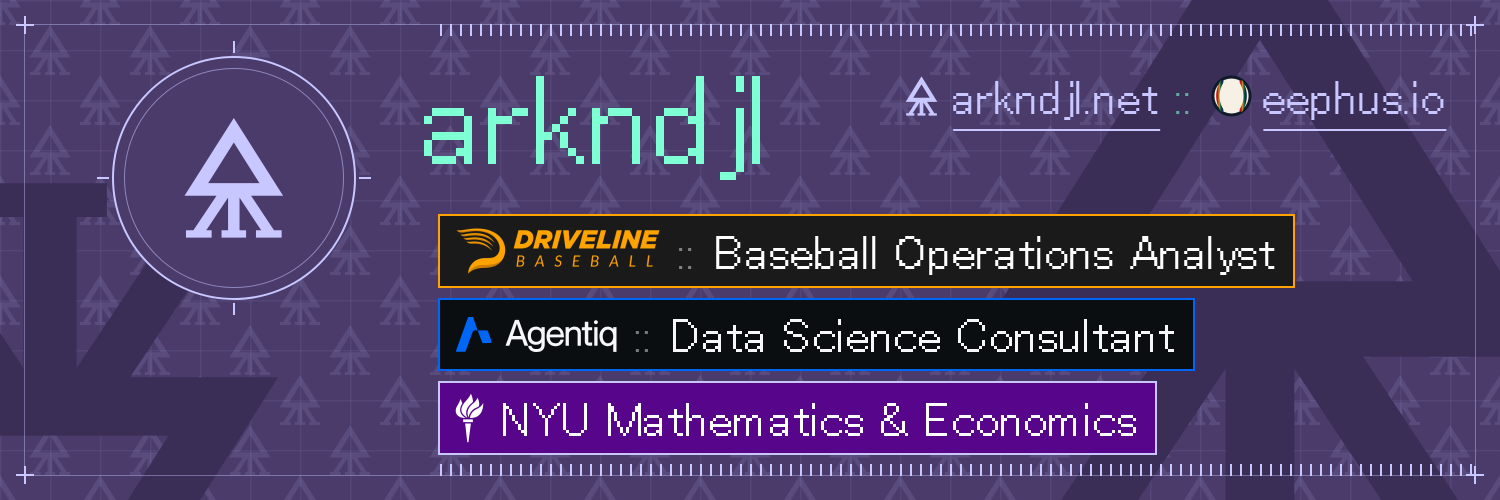
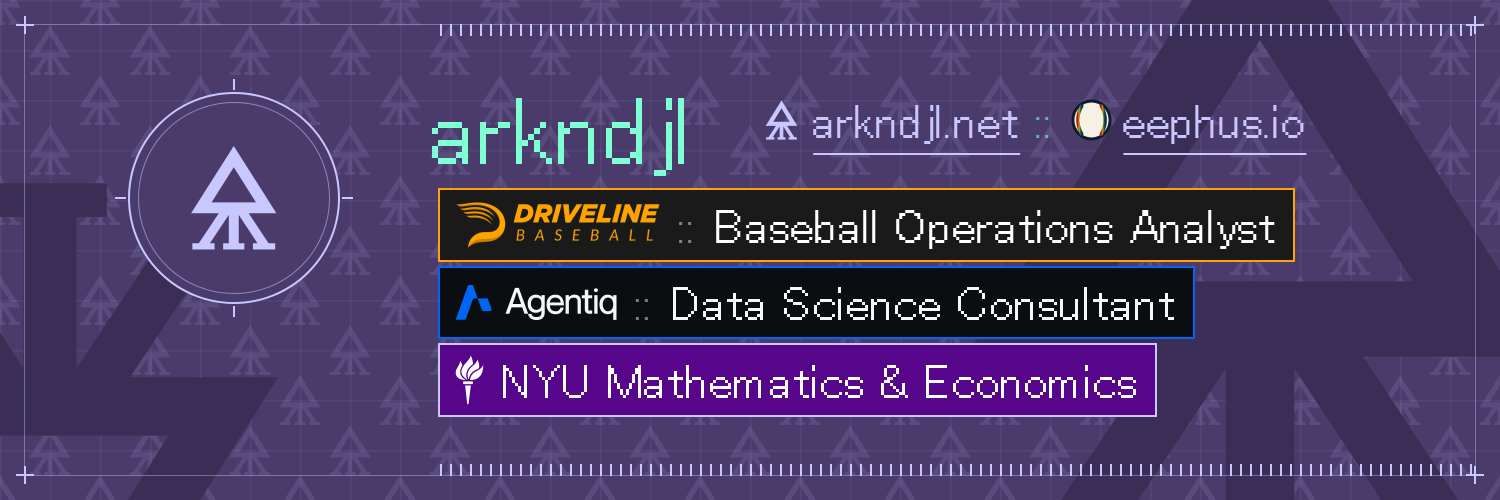
X header: keep all content inside the mobile crop band (y 80-420)
Claude-Session: https://claude.ai/code/session_01DDUMjCdc1fUkRFEjpiffW1

diff --git a/brand/twitter-banner.html b/brand/twitter-banner.html
@@ -2,7 +2,9 @@
 <!-- X / Twitter profile header, 1500 x 500. Flat layers: glyph wallpaper, a giant
      deep-purple glyph bleeding off the right, a flipped one off the left, stripe band,
      then emblem, wordmark, sites, badge. Phones show it at about a quarter size, so
-     nothing is smaller than 48px; the profile picture covers x < 380, y > 325. -->
+     nothing is smaller than 48px. The X mobile app crops about 60px off the top and bottom
+     (and more on narrow phones), so all content sits in the y 80-420 band; the profile
+     picture covers x < 380, y > 325, so the emblem stays above it. -->
 <link rel="stylesheet" href="theme.css">
 <style>
 .canvas { width: 1500px; height: 500px; --inset: 24px; --grid: 50px; --tile: 100px; --wp: .12; }
@@ -10,10 +12,10 @@
 .giant.l { left: -260px; top: 150px; width: 620px; height: 620px; }
 .stripes { left: 440px; right: 24px; top: 24px; }
 .stripes.b { top: auto; bottom: 24px; left: 440px; }
-.emblem { left: 112px; top: 56px; --s: 240px; }               /* centre y = 176, bottom 296 */
-.wordmark { left: 424px; top: 52px; font-size: 128px; }
-.links { left: 440px; top: 72px; font-size: 48px; margin-left: 460px; }
-.roles { left: 440px; top: 216px; font-size: 48px; --gap: 14px; }   /* three rows end y ~ 432 */
+.emblem { left: 128px; top: 92px; --s: 208px; }               /* centre y = 196, bottom 300 */
+.wordmark { left: 432px; top: 80px; font-size: 96px; }
+.links { left: 440px; top: 96px; font-size: 48px; margin-left: 320px; }
+.roles { left: 440px; top: 190px; font-size: 48px; --gap: 8px; }    /* three rows end y ~ 415 */
 </style></head><body><div class="canvas">
 <div class="wallpaper"></div>
 <div class="giant r"><img src="exports/logo-glyph-deep.svg" alt=""></div>

diff --git a/brand/README.md b/brand/README.md
@@ -42,7 +42,7 @@ Rules: clear space of one quarter of the emblem's diameter; minimum sizes glyph 
 | `../static/og-image.png` | 1200 × 627 | wide share card (og:image: Facebook, Discord, LinkedIn, iMessage) |
 | `../static/og/<page>.png` | 1200 × 627 | per-page ARKBOARD cards (the page's `cover`): sport, what it grades, short link, pixel hero. `render-og.js` |
 | `../static/og-square.png` | 1200 × 1200 | square share image for X's summary card (twitter:image): emblem only |
-| `twitter-banner.png` | 1500 × 500 | X header. Lower rows start at x = 400 so the profile picture does not cover them. |
+| `twitter-banner.png` | 1500 × 500 | X header. Content stays in the y 80-420 band (the X mobile app crops the top and bottom) and right of x = 400 below y 325 (profile picture). |
 | `linkedin-banner.png` | 1584 × 396 | LinkedIn background. Content starts at x = 400, clear of the profile photo; no emblem. |
 | `youtube-banner.png` | 2560 × 1440 | YouTube banner. Emblem + wordmark inside the 1546 × 423 safe area. |
 
